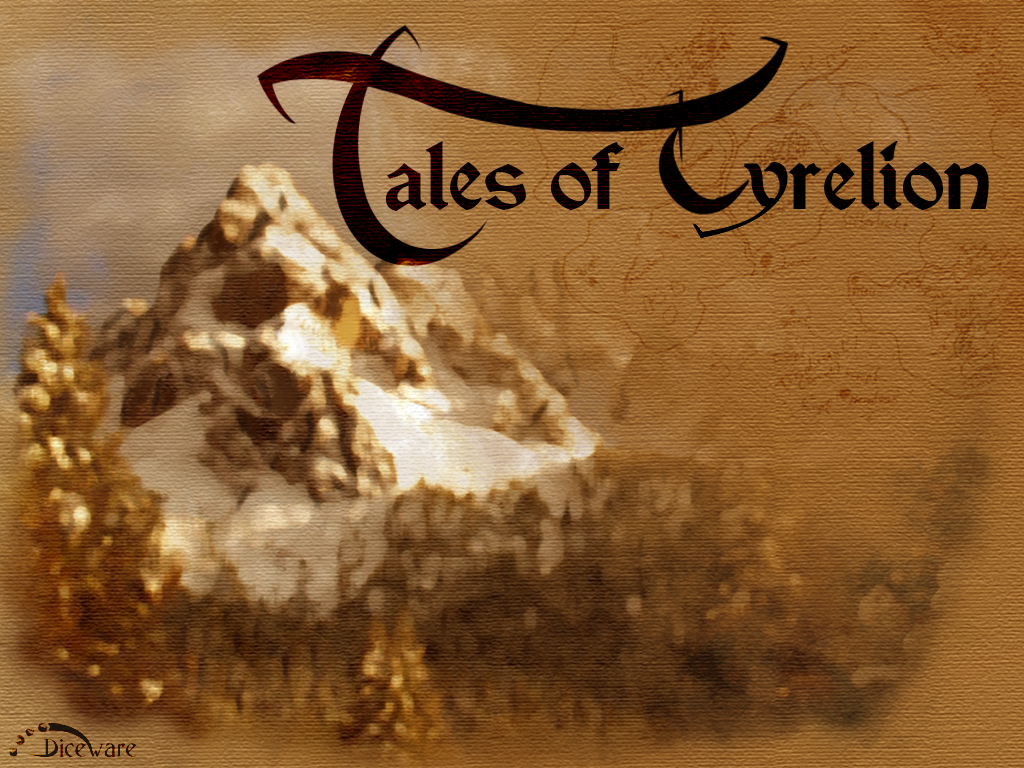
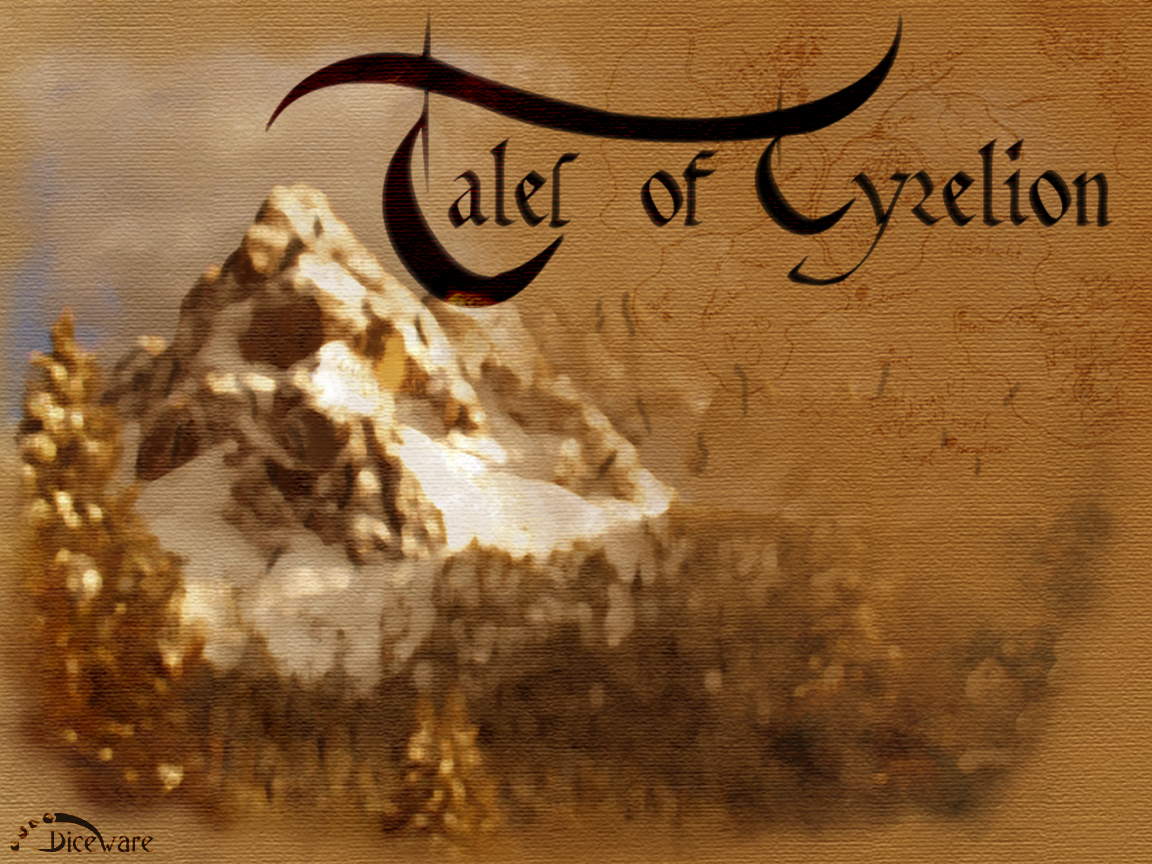
background updated to 1152x864

Changed region(s): [[0.2188, 0.0312, 0.9688, 0.375], [0.7188, 0.0312, 0.7812, 0.1562], [0.0625, 0.9688, 0.0938, 1.0]]

diff --git a/trunk/main/src/tyrelion/CollisionTest.java b/trunk/main/src/tyrelion/CollisionTest.java
@@ -34,7 +34,6 @@ public class CollisionTest extends BasicGameState {
 	/* (non-Javadoc)
 	 * @see org.newdawn.slick.state.GameState#init(org.newdawn.slick.GameContainer, org.newdawn.slick.state.StateBasedGame)
 	 */
-	@Override
 	public void init(GameContainer container, StateBasedGame game)
 			throws SlickException {
 		// TODO Auto-generated method stub
@@ -44,7 +43,6 @@ public class CollisionTest extends BasicGameState {
 	/* (non-Javadoc)
 	 * @see org.newdawn.slick.state.GameState#render(org.newdawn.slick.GameContainer, org.newdawn.slick.state.StateBasedGame, org.newdawn.slick.Graphics)
 	 */
-	@Override
 	public void render(GameContainer container, StateBasedGame game, Graphics g)
 			throws SlickException {
 		g.setColor(Color.red);
@@ -55,7 +53,6 @@ public class CollisionTest extends BasicGameState {
 	/* (non-Javadoc)
 	 * @see org.newdawn.slick.state.GameState#update(org.newdawn.slick.GameContainer, org.newdawn.slick.state.StateBasedGame, int)
 	 */
-	@Override
 	public void update(GameContainer container, StateBasedGame game, int delta)
 			throws SlickException {
 		
